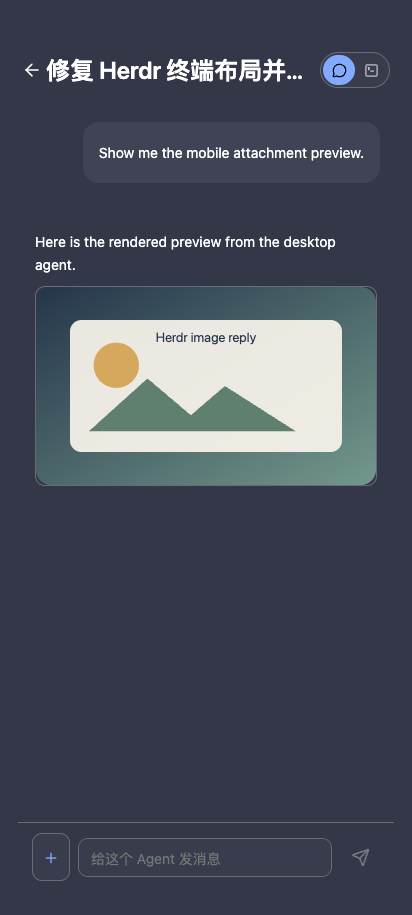
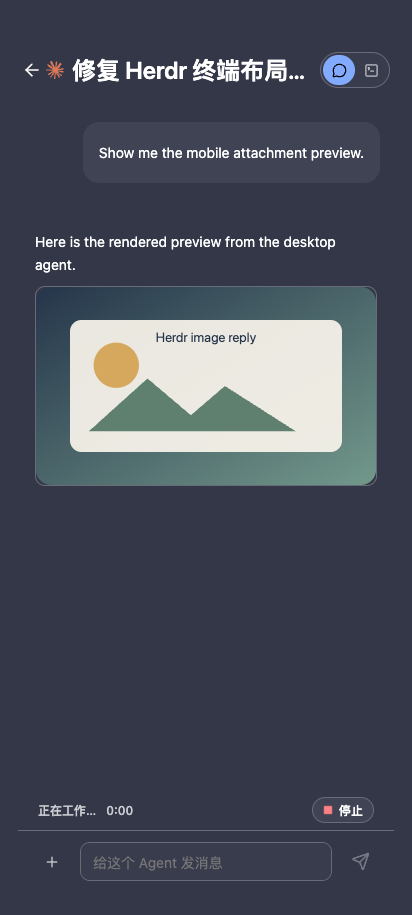
fix(herdr): size the composer attach button like the send button

Changed region(s): [[0.0874, 0.8568, 0.9029, 0.9792], [0.1165, 0.0612, 0.7282, 0.0918]]

diff --git a/src/styles.css b/src/styles.css
@@ -9143,6 +9143,19 @@ dialog:focus,
 .agent-send {
   flex: 0 0 auto;
 }
+/* The attach button shares the composer's quiet 40px controls here; the
+   bordered 48px .attach box belongs to the thread composer's taller field. */
+.agent-composer .attach {
+  flex: 0 0 40px;
+  height: 40px;
+  border: 0;
+  border-radius: var(--radius-md);
+  background: transparent;
+  color: var(--muted-foreground);
+}
+.agent-composer .attach:active {
+  background: var(--muted);
+}
 @media (max-width: 600px) {
   .agent-view-toggle button {
     width: 32px;

diff --git a/CHANGELOG.md b/CHANGELOG.md
@@ -18,6 +18,7 @@ The format is based on [Keep a Changelog](https://keepachangelog.com/en/1.1.0/),
 
 ### Fixed
 
+- Herdr composer: the attach button matches the send button (40px, no border) instead of the taller bordered box from the thread composer.
 - Image annotator: a bare tap no longer adds an empty numbered region.
 - Image annotator: the region label row is vertically centred with equal 12px padding above and below, and the toolbar sits 12px under the divider.
 - Image encoding (photo downscale and annotation export) uses the synchronous canvas data URL first; on Android WebView the async `toBlob` path took 6–13 s per image.
